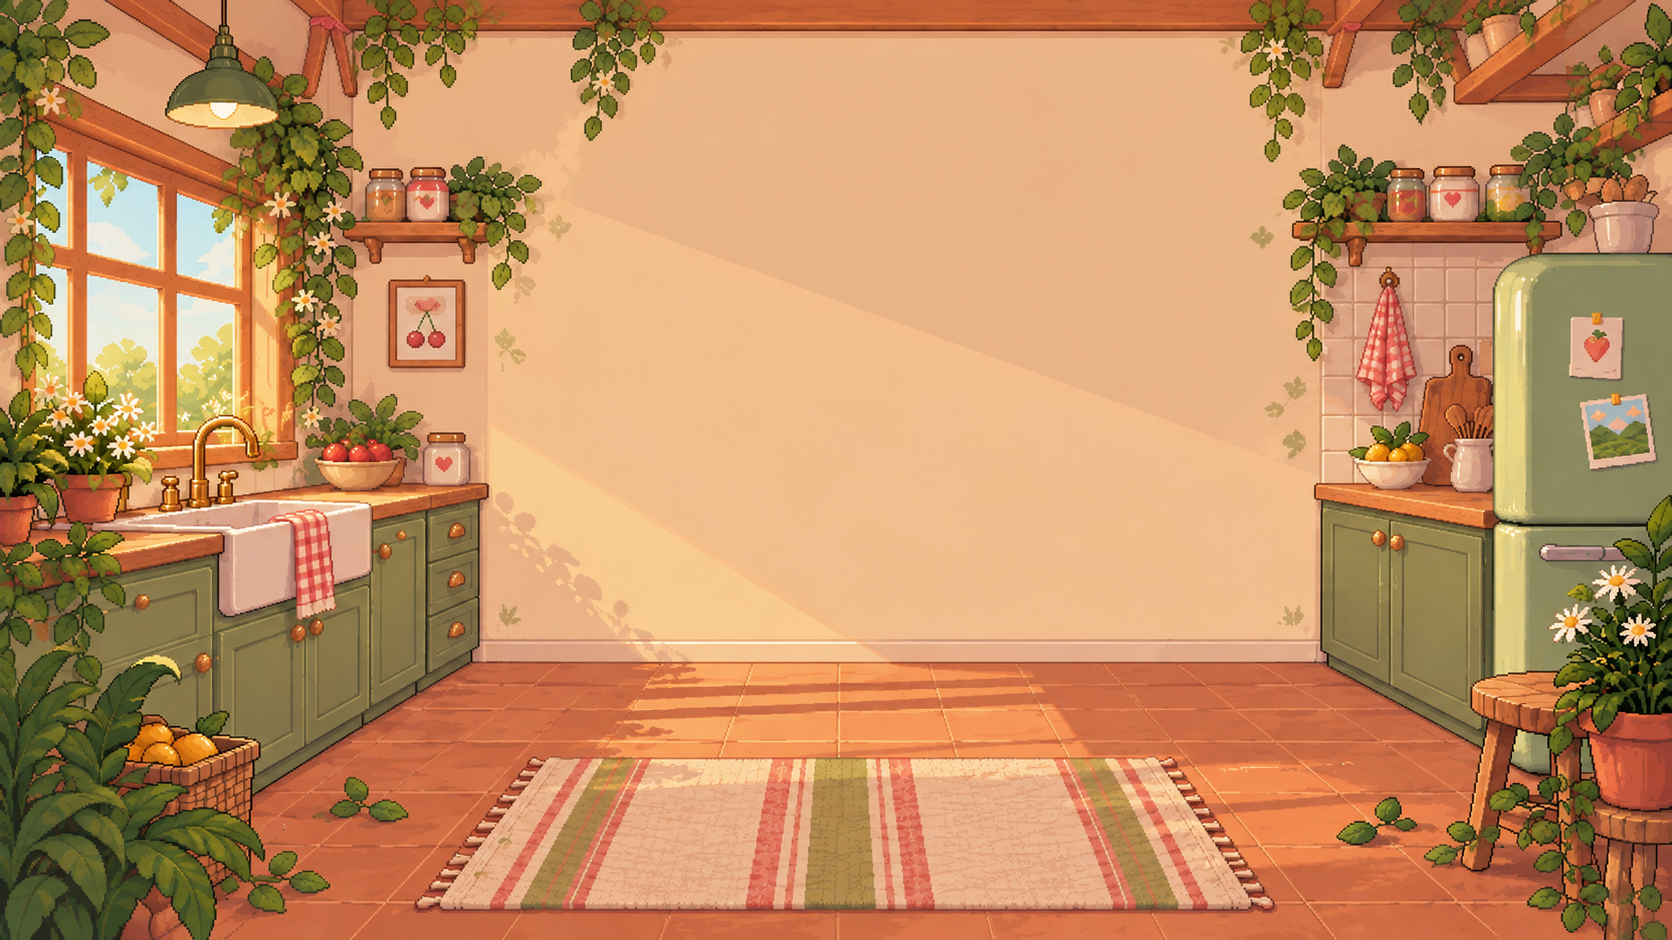
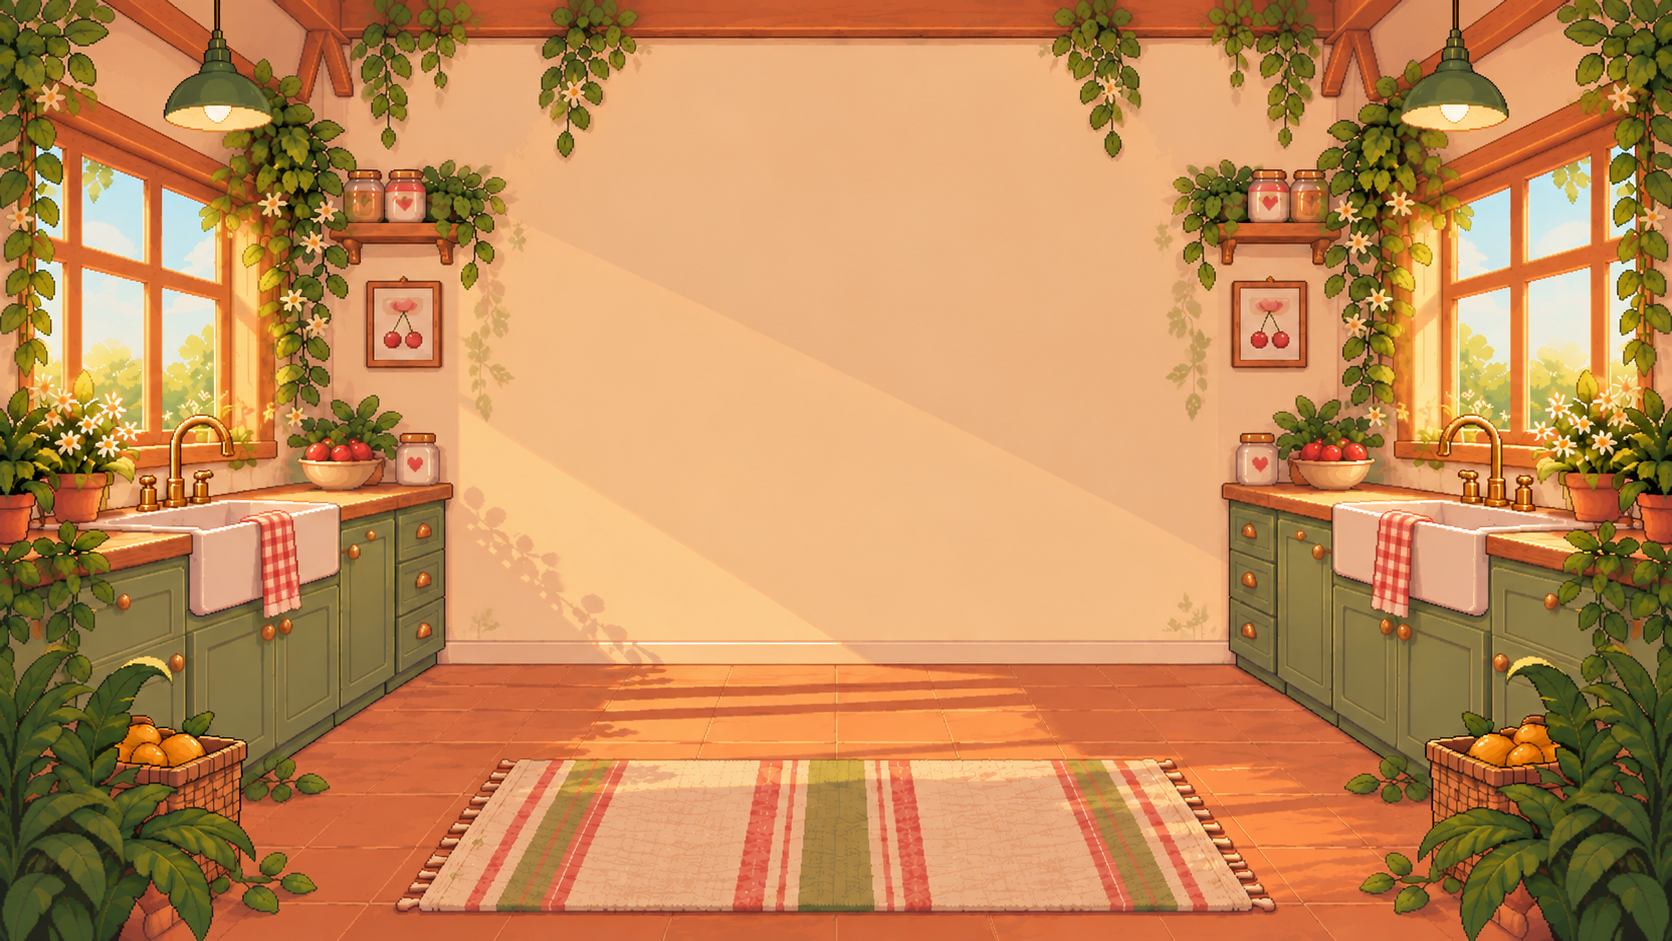
falta o esqueceu-se da pass

diff --git a/frontend/src/pages/Login.css b/frontend/src/pages/Login.css
@@ -16,14 +16,14 @@
 .login-content {
     width: min(90%, 450px);
     text-align: center;
-    transform: translateY(-70px);
+    transform: translateY(-90px);
 }
 
 .login-content h1 {
     font-family: 'Press Start 2P', monospace;
     font-size: 75 px;
     line-height: 1.2;
-    margin: 0 0 30px;
+    margin: 0 0 20px;
     filter: drop-shadow(3px 4px 1px rgba(65, 42, 20, 0.45));
 }
 
@@ -42,7 +42,7 @@
     background-color: rgba(222, 198, 170, 0.3);
     border: 2px solid #A74632;
     border-radius: 40px;
-    padding: 70px 40px;
+    padding: 60px 40px;
 
     display: flex;
     justify-content: center;
@@ -74,7 +74,7 @@
     display: flex;
     flex-direction: column;
     align-items: center;
-    gap: 30px;
+    gap: 20px;
 }
 
 .login-form form > div {
@@ -132,6 +132,11 @@
     padding-left: 35px;
 }
 
+.input-password input:focus{
+    outline: none;
+    
+}
+
 .input-username img {
     position: absolute;
     left: 10px;
@@ -161,4 +166,45 @@
     width: 100%;
     box-sizing: border-box;
     padding-left: 35px;
+}
+
+.input-username input:focus{
+    outline: none;
+    
+}
+
+.login-container button {
+    width: 300px;
+    height: 38px;
+    margin-top: 20px;
+
+    background-color: #A74632;
+    color: #E0C3A2;
+    border: none;
+
+    font-family: 'Press Start 2P', sans-serif;
+    font-size: 16px;
+
+    display: flex;
+    align-items: center;
+    justify-content: center;
+    position: relative;
+}
+
+.login-container button img {
+    width: 16px;
+    height: 16px;
+    object-fit: contain;
+    position: absolute;
+    left: 80px;
+}
+
+.login-container button {
+    transition: transform 0.1s ease, filter 0.1s ease;
+    cursor: pointer;
+}
+
+.login-container button:active {
+    transform: scale(0.96);
+    filter: brightness(0.85);
 }

diff --git a/frontend/src/pages/Login.jsx b/frontend/src/pages/Login.jsx
@@ -5,6 +5,7 @@ import { useAuth } from "../contexts/AuthContext";
 import "./Login.css";
 import cadeado from "../assets/cadeado.png";
 import avatar from "../assets/avatar.png";
+import toque from "../assets/toque.png";
 
 function Login() {
   const [username, setUsername] = useState("");
@@ -59,7 +60,10 @@ function Login() {
               />
             </div>
 
-            <button type="submit">LOGIN</button>
+            <button type="submit">
+              <img src={toque} alt="Login" />
+              LOGIN
+            </button>
           </form>
         </div>
       </div>
